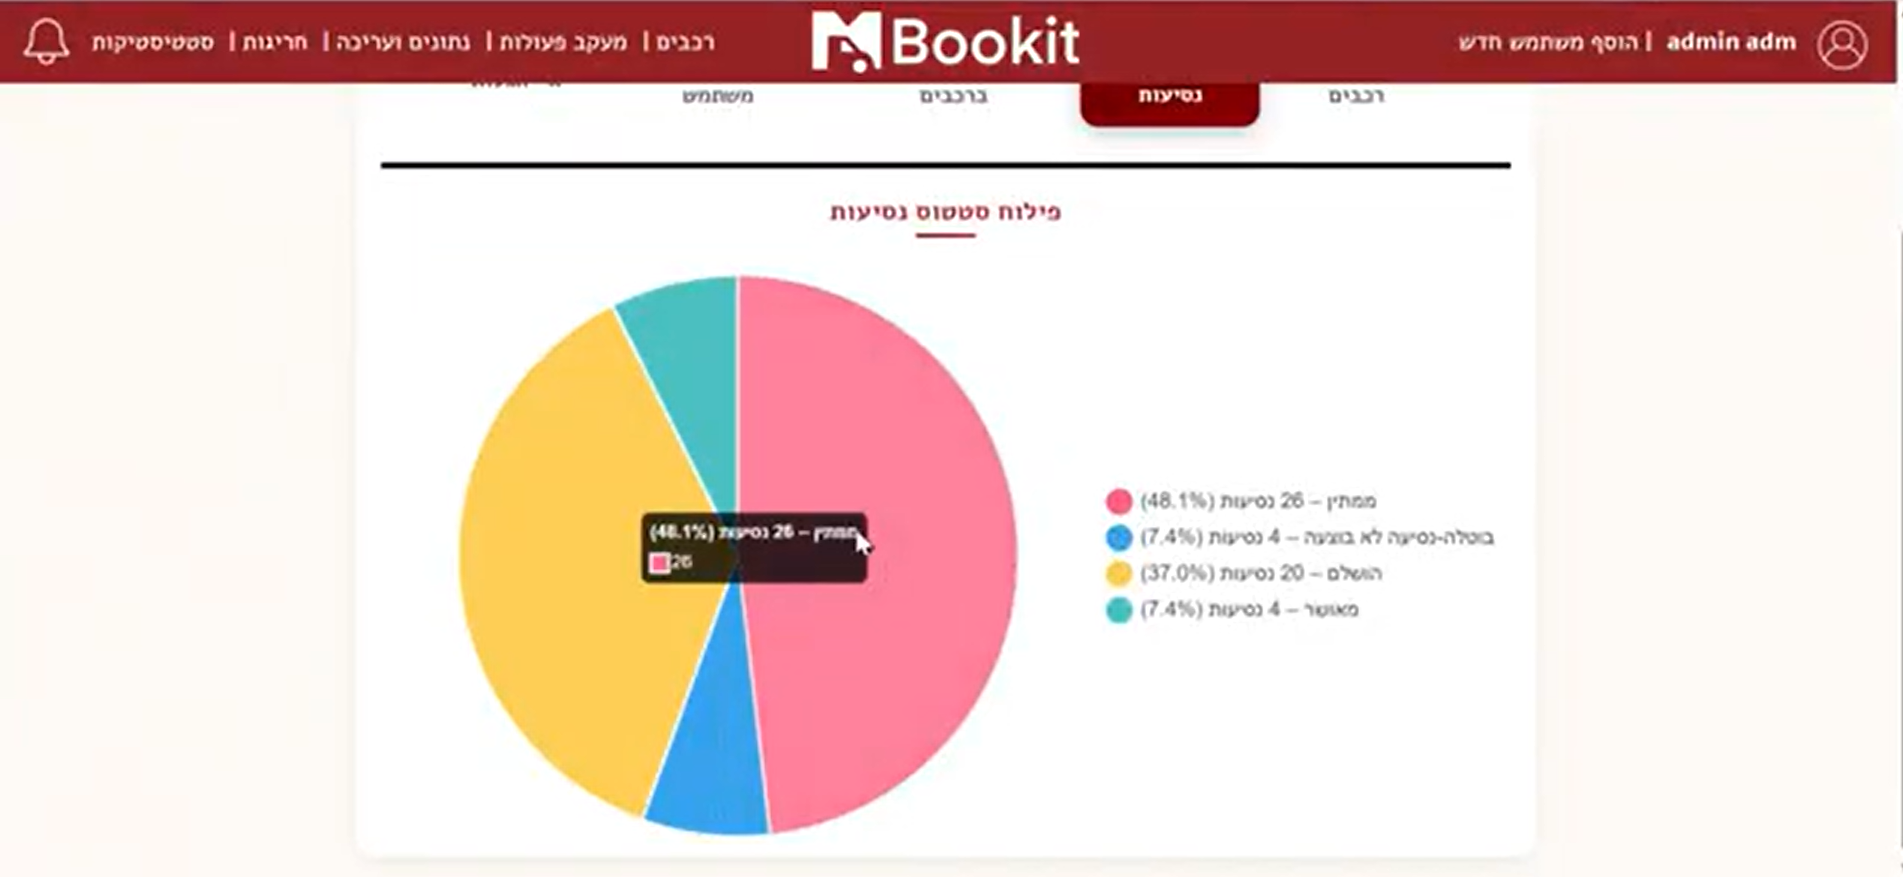
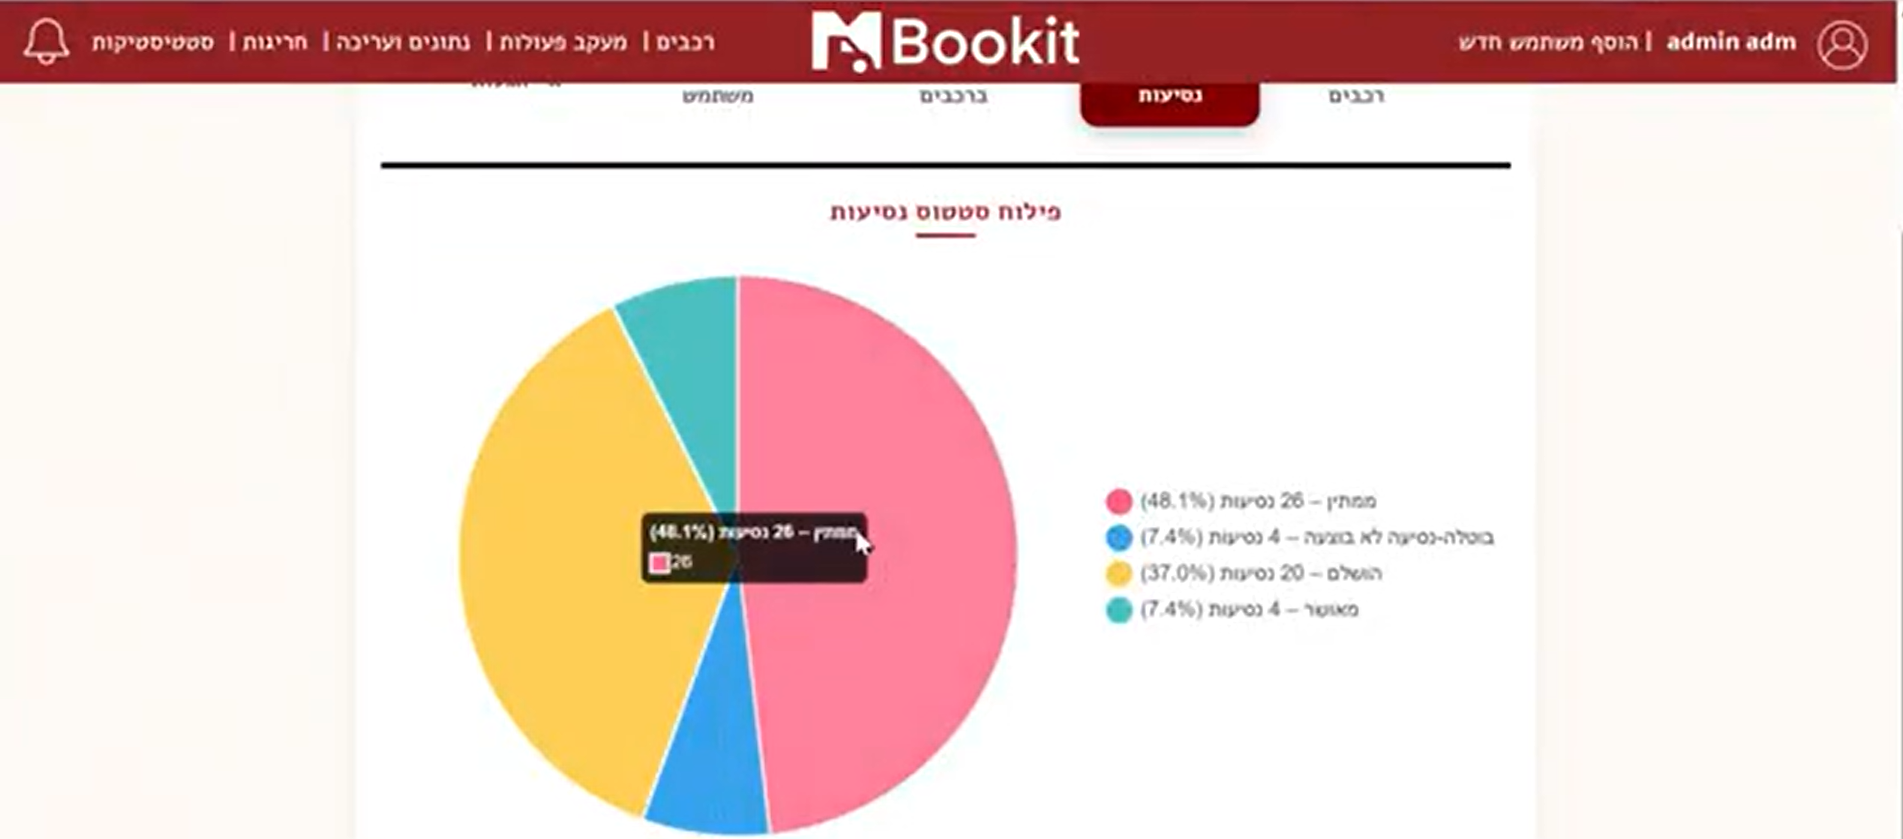
update video references and enhance modal styling for catalog and vehicle demos

diff --git a/style.css b/style.css
@@ -590,100 +590,81 @@ body.dark-mode .tech-tag {
     transform: translateY(-3px);
     box-shadow: 0 6px 15px rgba(217, 70, 239, 0.3);
 }
-
+/* ==========================================================================
+   MODAL STRUCTURING & INTERACTION
+   ========================================================================== */
 .modal-toggle {
     display: none;
 }
 
-/* modal hidden */
 .modal {
     position: fixed;
     inset: 0;
-    background: rgba(0,0,0,0.85);
+    background: rgba(15, 23, 42, 0.9); 
+    backdrop-filter: blur(8px);       
     display: none;
     justify-content: center;
     align-items: center;
-    z-index: 9999;
+    z-index: 9999;                
 }
 
-/* open modal */
 .modal-toggle:checked ~ .modal {
     display: flex;
 }
 
-/* video box */
+
 .modal-content {
     position: relative;
-    width: min(900px, 90%);
+    width: min(900px, 92%);
+    z-index: 10;
 }
 
-/* video */
+
 .video-frame {
     width: 100%;
-    height: 450px;
-    border-radius: 10px;
-    position: relative;
-    z-index: 2;
-}
-
-/* play button on image */
-.video-thumbnail {
-    position: relative;
-    cursor: pointer;
-}
-
-.video-thumbnail img {
-    width: 100%;
+    aspect-ratio: 16 / 9;            
     border-radius: 12px;
+    border: 1px solid rgba(255, 255, 255, 0.1);
+    box-shadow: 0 25px 50px -12px rgba(0, 0, 0, 0.5);
+    background: #000;
 }
 
-.play-button {
-    position: absolute;
-    top: 50%;
-    left: 50%;
-    transform: translate(-50%, -50%);
-    font-size: 40px;
-    background: rgba(0,0,0,0.5);
-    padding: 10px 16px;
-    border-radius: 50%;
-    color: white;
-}
 
-/* close X */
 .close {
     position: absolute;
-    top: -10px;
+    top: -35px;
     right: 0;
-    color: white;
-    font-size: 24px;
+    color: rgba(255, 255, 255, 0.7);
+    font-size: 26px;
     cursor: pointer;
-    z-index: 3;
+    transition: color 0.2s ease;
 }
 
-/* 🔥 click outside to close */
+.close:hover {
+    color: #fff;
+}
+
 .overlay {
     position: fixed;
     inset: 0;
     cursor: pointer;
-    z-index: 1;
+    z-index: -1;                  
 }
 
-/* iframe */
-.video-frame {
-    width: 100%;
-    height: 450px;
-    border-radius: 10px;
-    z-index: 2;
-}
-
+/* ==========================================================================
+   THUMBNAILS & PLAY BUTTONS
+   ========================================================================== */
 .video-thumbnail {
     position: relative;
-    margin-bottom: 1rem;
+    margin-bottom: 1.25rem;
     cursor: pointer;
+    overflow: hidden;
+    border-radius: 14px;
 }
 
 .video-thumbnail img {
     width: 100%;
+    display: block;
     border-radius: 14px;
     border: 1px solid var(--border-color);
     transition: var(--transition);
@@ -691,6 +672,7 @@ body.dark-mode .tech-tag {
 
 .video-thumbnail:hover img {
     transform: scale(1.02);
+    filter: brightness(0.85);
 }
 
 .play-button {
@@ -698,11 +680,25 @@ body.dark-mode .tech-tag {
     top: 50%;
     left: 50%;
     transform: translate(-50%, -50%);
-    font-size: 38px;
+    font-size: 32px;
     color: white;
-    background: rgba(0,0,0,0.5);
-    padding: 10px 16px;
+    background: var(--accent); 
+    width: 70px;
+    height: 70px;
+    display: flex;
+    align-items: center;
+    justify-content: center;
+    padding-left: 6px;         
     border-radius: 50%;
+    box-shadow: 0 10px 25px rgba(99, 102, 241, 0.4);
+    transition: var(--transition);
+    pointer-events: none;     
+}
+
+.video-thumbnail:hover .play-button {
+    background: var(--accent-gradient);
+    transform: translate(-50%, -50%) scale(1.1);
+    box-shadow: 0 15px 30px rgba(217, 70, 239, 0.5);
 }
 
 /* ==========================================================================

diff --git a/index.html b/index.html
@@ -151,28 +151,25 @@
 
                  <div class="project-card">
 
-                    <input type="checkbox" id="video-vehicle" class="modal-toggle">
+                   <input type="checkbox" id="video-catalog" class="modal-toggle">
 
                     <div class="video-thumbnail">
-                        <label for="video-vehicle">
-                            <img src="/assets/images/catlog.png" alt="Vehicle system demo">
+                        <label for="video-catalog">
+                            <img src="./assets/images/catlog.png" alt="Catalog system demo">
                             <div class="play-button">▶</div>
                         </label>
                     </div>
 
                     <div class="modal">
                         <div class="modal-content">
-                            <!-- <video controls style="width:100%" class="video-frame">
-                                <source src="assets/videos/admin_flow_vehicle.mp4" type="video/mp4">
-                            </video> -->
-                            <label for="video-vehicle" class="overlay"></label>
-                            <label for="video-vehicle" class="close">✕</label>
+                            <iframe class="video-frame" src="https://www.youtube.com/embed/skgfgOUzDuU" title="Catalog System Demo" frameborder="0" allow="accelerometer; autoplay; clipboard-write; encrypted-media; gyroscope; picture-in-picture; web-share" allowfullscreen></iframe>
+                            
+                            <label for="video-catalog" class="overlay"></label>
+                            <label for="video-catalog" class="close">✕</label>
                         </div>
                     </div>
-
                     <div>
                         <h3 class="project-name">Hierarchical Catalog Management System</h3>
-                        <!-- https://youtu.be/skgfgOUzDuU      link to youtube  -->
                         <p class="project-desc">
                             A web-based hierarchical catalog management system supporting nested categories, subcategories and products with advanced operations like copy, move, and duplication. It includes a role-based permission model with inherited access rules and a search system with breadcrumb navigation and secure, permission-aware filtering.                      </p>
                     </div>
@@ -193,16 +190,15 @@
 
                     <div class="video-thumbnail">
                         <label for="video-vehicle">
-                            <img src="/assets/images/vehicle.png" alt="Vehicle system demo">
+                            <img src="./assets/images/vehicle.png" alt="Vehicle system demo">
                             <div class="play-button">▶</div>
                         </label>
                     </div>
 
                     <div class="modal">
                         <div class="modal-content">
-                            <!-- <video controls style="width:100%" class="video-frame">
-                                <source src="" type="video/mp4">
-                            </video> -->
+                            <iframe class="video-frame" src="https://www.youtube.com/embed/ezpQ4PLQylc" title="Vehicle System Demo" frameborder="0" allow="accelerometer; autoplay; clipboard-write; encrypted-media; gyroscope; picture-in-picture; web-share" allowfullscreen></iframe>
+                            
                             <label for="video-vehicle" class="overlay"></label>
                             <label for="video-vehicle" class="close">✕</label>
                         </div>